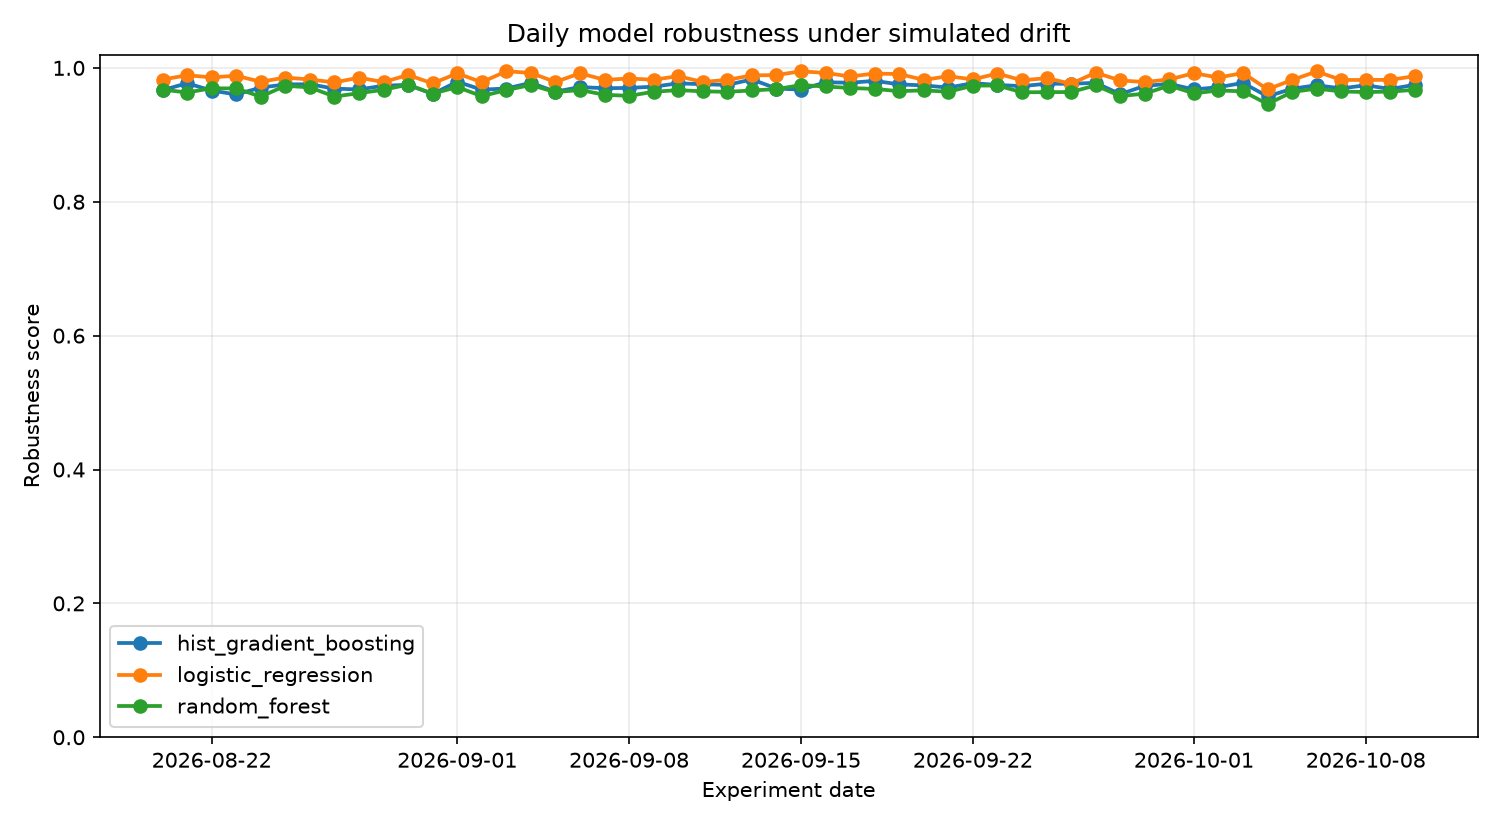
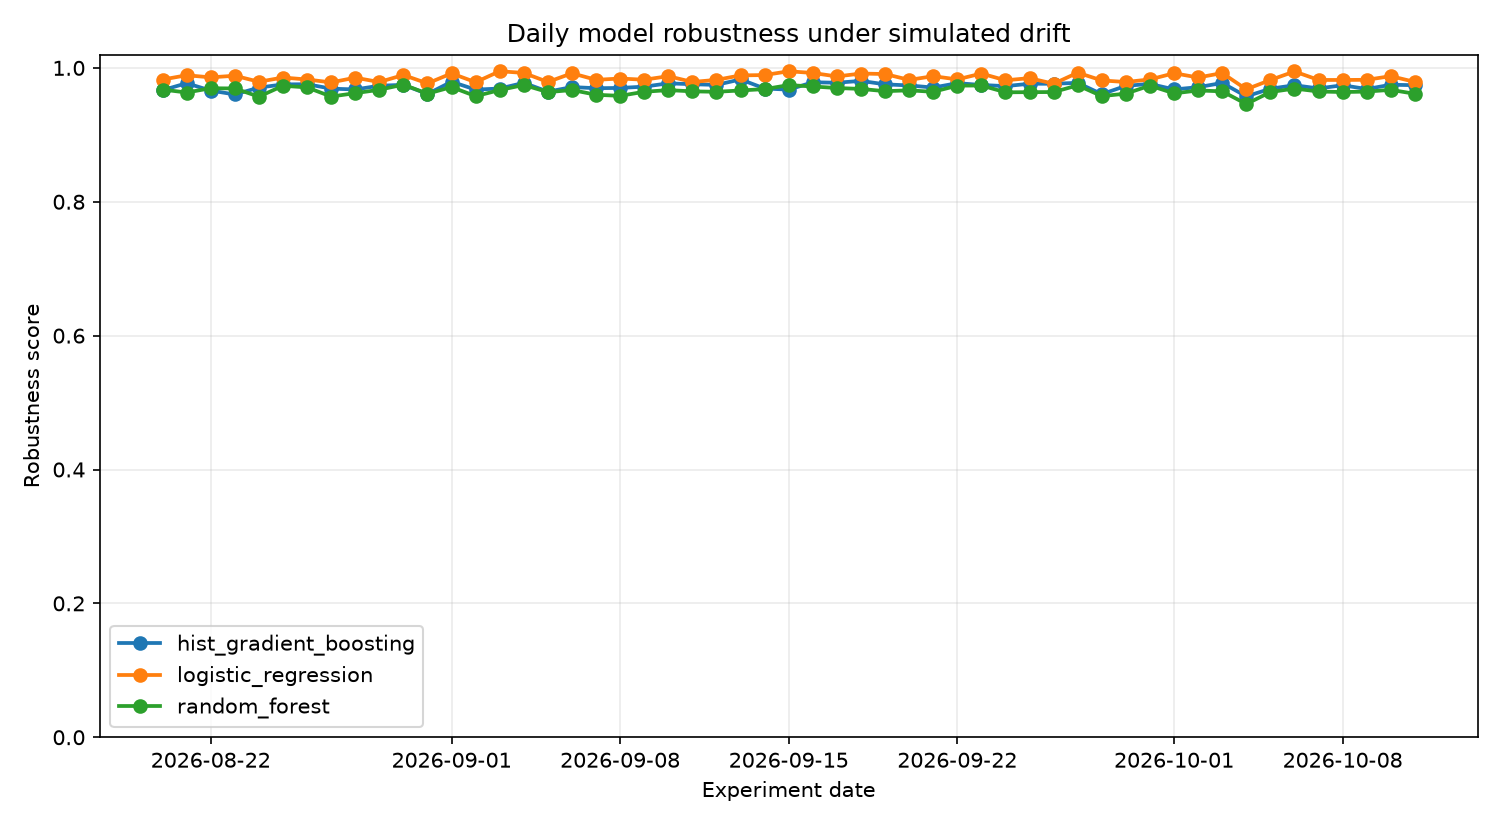
chore(observatory): daily drift benchmark 2026-10-11

diff --git a/reports/latest.md b/reports/latest.md
@@ -1,37 +1,37 @@
 # Latest DriftWatch Report
 
-**Experiment date:** 2026-10-10
+**Experiment date:** 2026-10-11
 
 ## Drift scenario
 
-- Drift strength: `0.230`
-- Scale factor: `0.977`
-- Noise ratio: `0.053`
-- Mask ratio: `0.013`
-- Affected features: mean texture, mean area, mean symmetry, mean fractal dimension, concave points error, fractal dimension error
+- Drift strength: `0.274`
+- Scale factor: `1.027`
+- Noise ratio: `0.058`
+- Mask ratio: `0.015`
+- Affected features: mean radius, mean concave points, radius error, worst perimeter, worst compactness, worst concave points
 
 ## Model ranking
 
 | Rank | Model | Robustness | ROC-AUC | F1 | Balanced Acc. | Log Loss | Brier |
 |---:|---|---:|---:|---:|---:|---:|---:|
-| 1 | `logistic_regression` | 0.9877 | 0.9985 | 0.9811 | 0.9782 | 0.0656 | 0.0173 |
-| 2 | `hist_gradient_boosting` | 0.9748 | 0.9939 | 0.9677 | 0.9516 | 0.1106 | 0.0340 |
-| 3 | `random_forest` | 0.9672 | 0.9933 | 0.9533 | 0.9376 | 0.1271 | 0.0361 |
+| 1 | `logistic_regression` | 0.9790 | 0.9981 | 0.9665 | 0.9642 | 0.1005 | 0.0300 |
+| 2 | `hist_gradient_boosting` | 0.9742 | 0.9945 | 0.9623 | 0.9532 | 0.0965 | 0.0292 |
+| 3 | `random_forest` | 0.9613 | 0.9907 | 0.9423 | 0.9345 | 0.1536 | 0.0455 |
 
 ## Highest feature drift (PSI)
 
 | Feature | PSI |
 |---|---:|
-| mean texture | 0.1441 |
-| worst concavity | 0.1281 |
-| texture error | 0.1249 |
-| worst fractal dimension | 0.1218 |
-| perimeter error | 0.1218 |
-| fractal dimension error | 0.1178 |
-| worst concave points | 0.1141 |
-| radius error | 0.1063 |
+| mean concave points | 0.3088 |
+| texture error | 0.2796 |
+| worst concave points | 0.1752 |
+| worst compactness | 0.1651 |
+| mean concavity | 0.1489 |
+| radius error | 0.1389 |
+| worst perimeter | 0.1269 |
+| mean radius | 0.1260 |
 
-**Mean PSI:** `0.0815`  
-**Max PSI:** `0.1441`
+**Mean PSI:** `0.1039`  
+**Max PSI:** `0.3088`
 
 _Generated automatically by the DriftWatch daily observatory pipeline._
